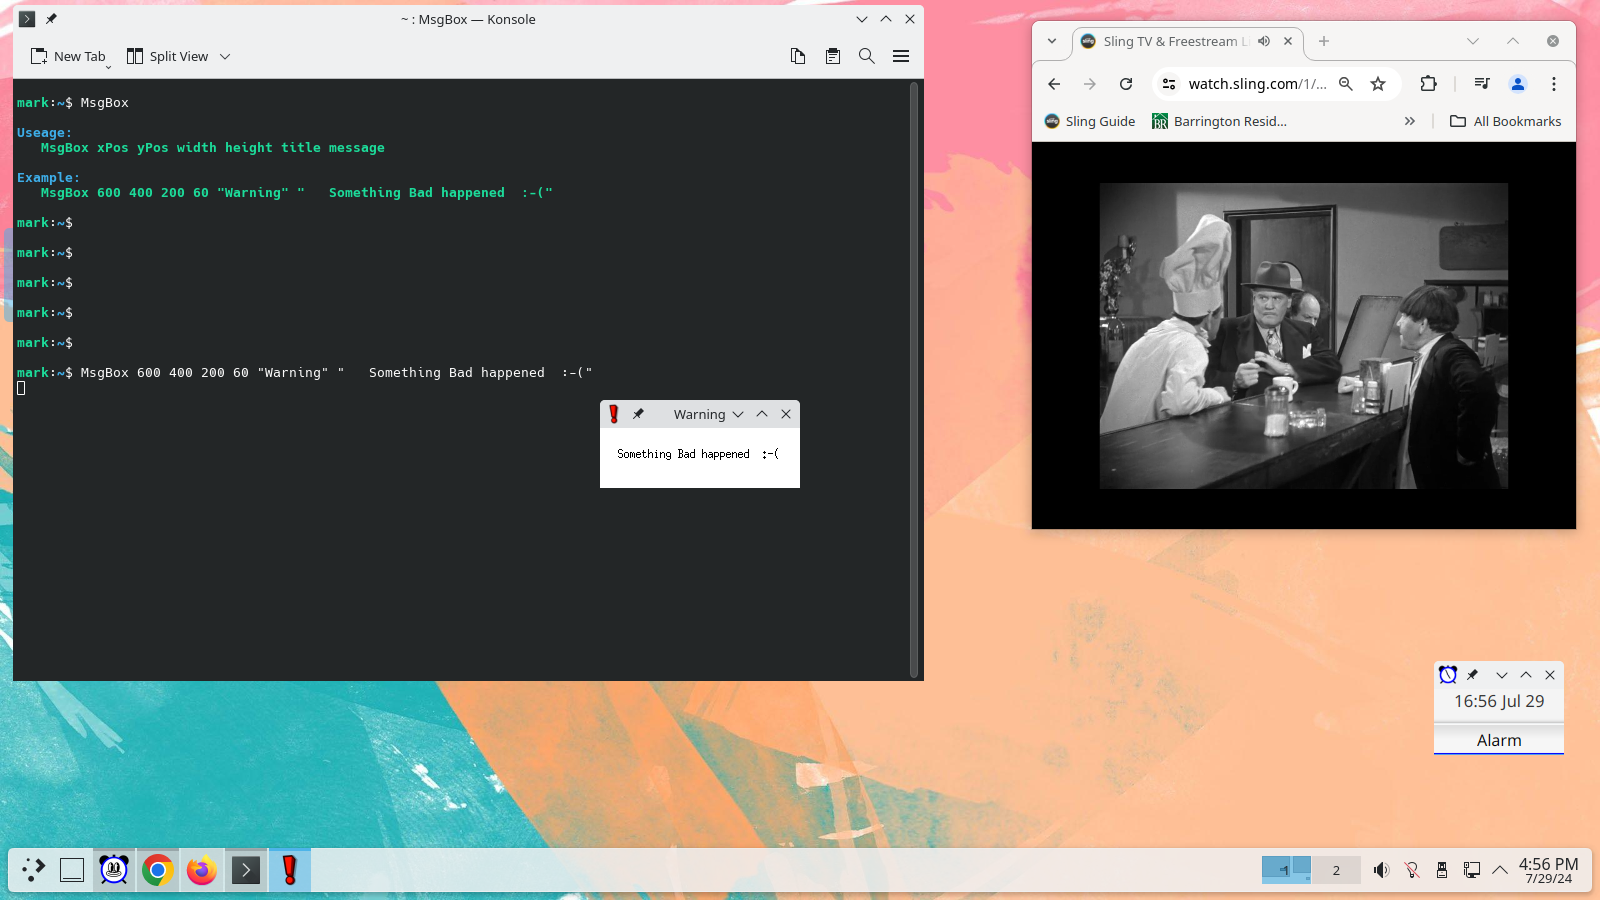
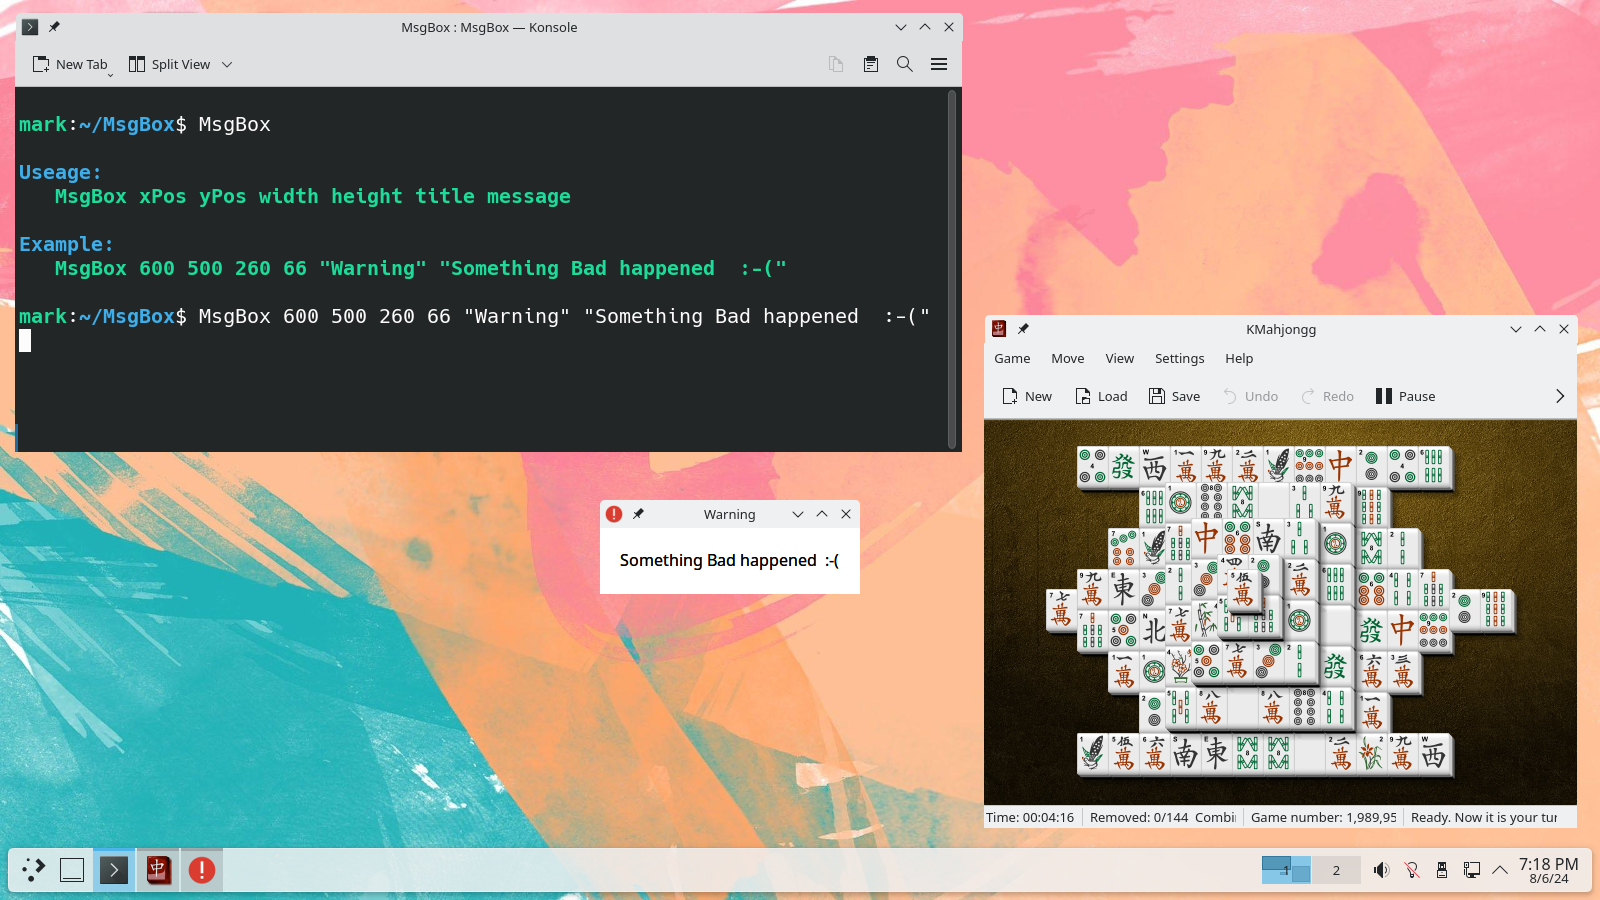
Add Xft to slightly improve fonts:

diff --git a/MsgBox.cpp b/MsgBox.cpp
@@ -5,6 +5,7 @@
 #include <string.h>
 
 // X11.
+#include <X11/Xft/Xft.h>
 #include <X11/Xlib.h>
 #include <X11/Xutil.h>
 #include <X11/Xatom.h>
@@ -29,6 +30,13 @@ Display* mDisplay;
 
 Window mMsgBox;
 
+XftFont* mFont;
+
+const XftColor mFontColor = { .pixel = 0x0, .color = { 
+    .red = 0xff, .green = 0xff,
+    .blue = 0xff, .alpha = 0xffff } };
+
+
 /** ********************************************************
  ** Module Entry.
  **/
@@ -39,6 +47,14 @@ int main(int argCount, char** argValues) {
         cout << COLOR_RED << "\nMsgBox: X11 Windows are unavailable "
             "with this desktop." << COLOR_NORMAL << "\n";
         exit(1);
+    }
+
+    mFont = XftFontOpenName(mDisplay, DefaultScreen(mDisplay),
+        "-misc-fixed-medium-r-normal--15-140-75-75-c-90-iso8859-16");
+    if (mFont == NULL) {
+        cout << COLOR_RED << "\nMsgBox: Cannot open XftFont - "
+            "FATAL.\n" << COLOR_NORMAL;
+        exit(3);
     }
 
     // Ensure proper invocation.
@@ -110,8 +126,13 @@ int main(int argCount, char** argValues) {
                 break;
 
             case Expose:
-                XDrawString(mDisplay, mMsgBox, DefaultGC(mDisplay, 0),
-                    0, 30, msgString.c_str(), msgString.length());
+                XftDraw* textDrawable = XftDrawCreate(mDisplay, mMsgBox,
+                    DefaultVisual(mDisplay, DefaultScreen(mDisplay)),
+                   DefaultColormap(mDisplay, DefaultScreen(mDisplay)));
+
+                XftDrawString8(textDrawable, &mFontColor, mFont,
+                    LEFT_MARGIN, TOP_MARGIN,
+                    (const FcChar8*) msgString.c_str(), msgString.length());
                 break;
         }
     }
@@ -131,6 +152,6 @@ void displayUsage() {
         "title message" << COLOR_NORMAL << "\n";
 
     cout << COLOR_BLUE << "\nExample:" << COLOR_NORMAL << "\n";
-    cout << COLOR_GREEN << "   MsgBox 600 400 200 60 \"Warning\" "
-        "\"   Something Bad happened  :-(\"" << COLOR_NORMAL << "\n";
+    cout << COLOR_GREEN << "   MsgBox 600 500 260 66 \"Warning\" "
+        "\"Something Bad happened  :-(\"" << COLOR_NORMAL << "\n";
 }

diff --git a/MsgBox.h b/MsgBox.h
@@ -1,2 +1,6 @@
+// xMsgBox consts.
+#define LEFT_MARGIN 20
+#define TOP_MARGIN 36
 
+// Forward decls.
 void displayUsage();

diff --git a/README.md b/README.md
@@ -24,7 +24,7 @@
     
     
 ## Example
-    MsgBox 600 400 200 60 "Warning" "   Something Bad happened  :-("
+    MsgBox 600 500 260 66 "Warning" "Something Bad happened  :-("
     
     
 ## markcapella@twcny.rr.com Rocks !
